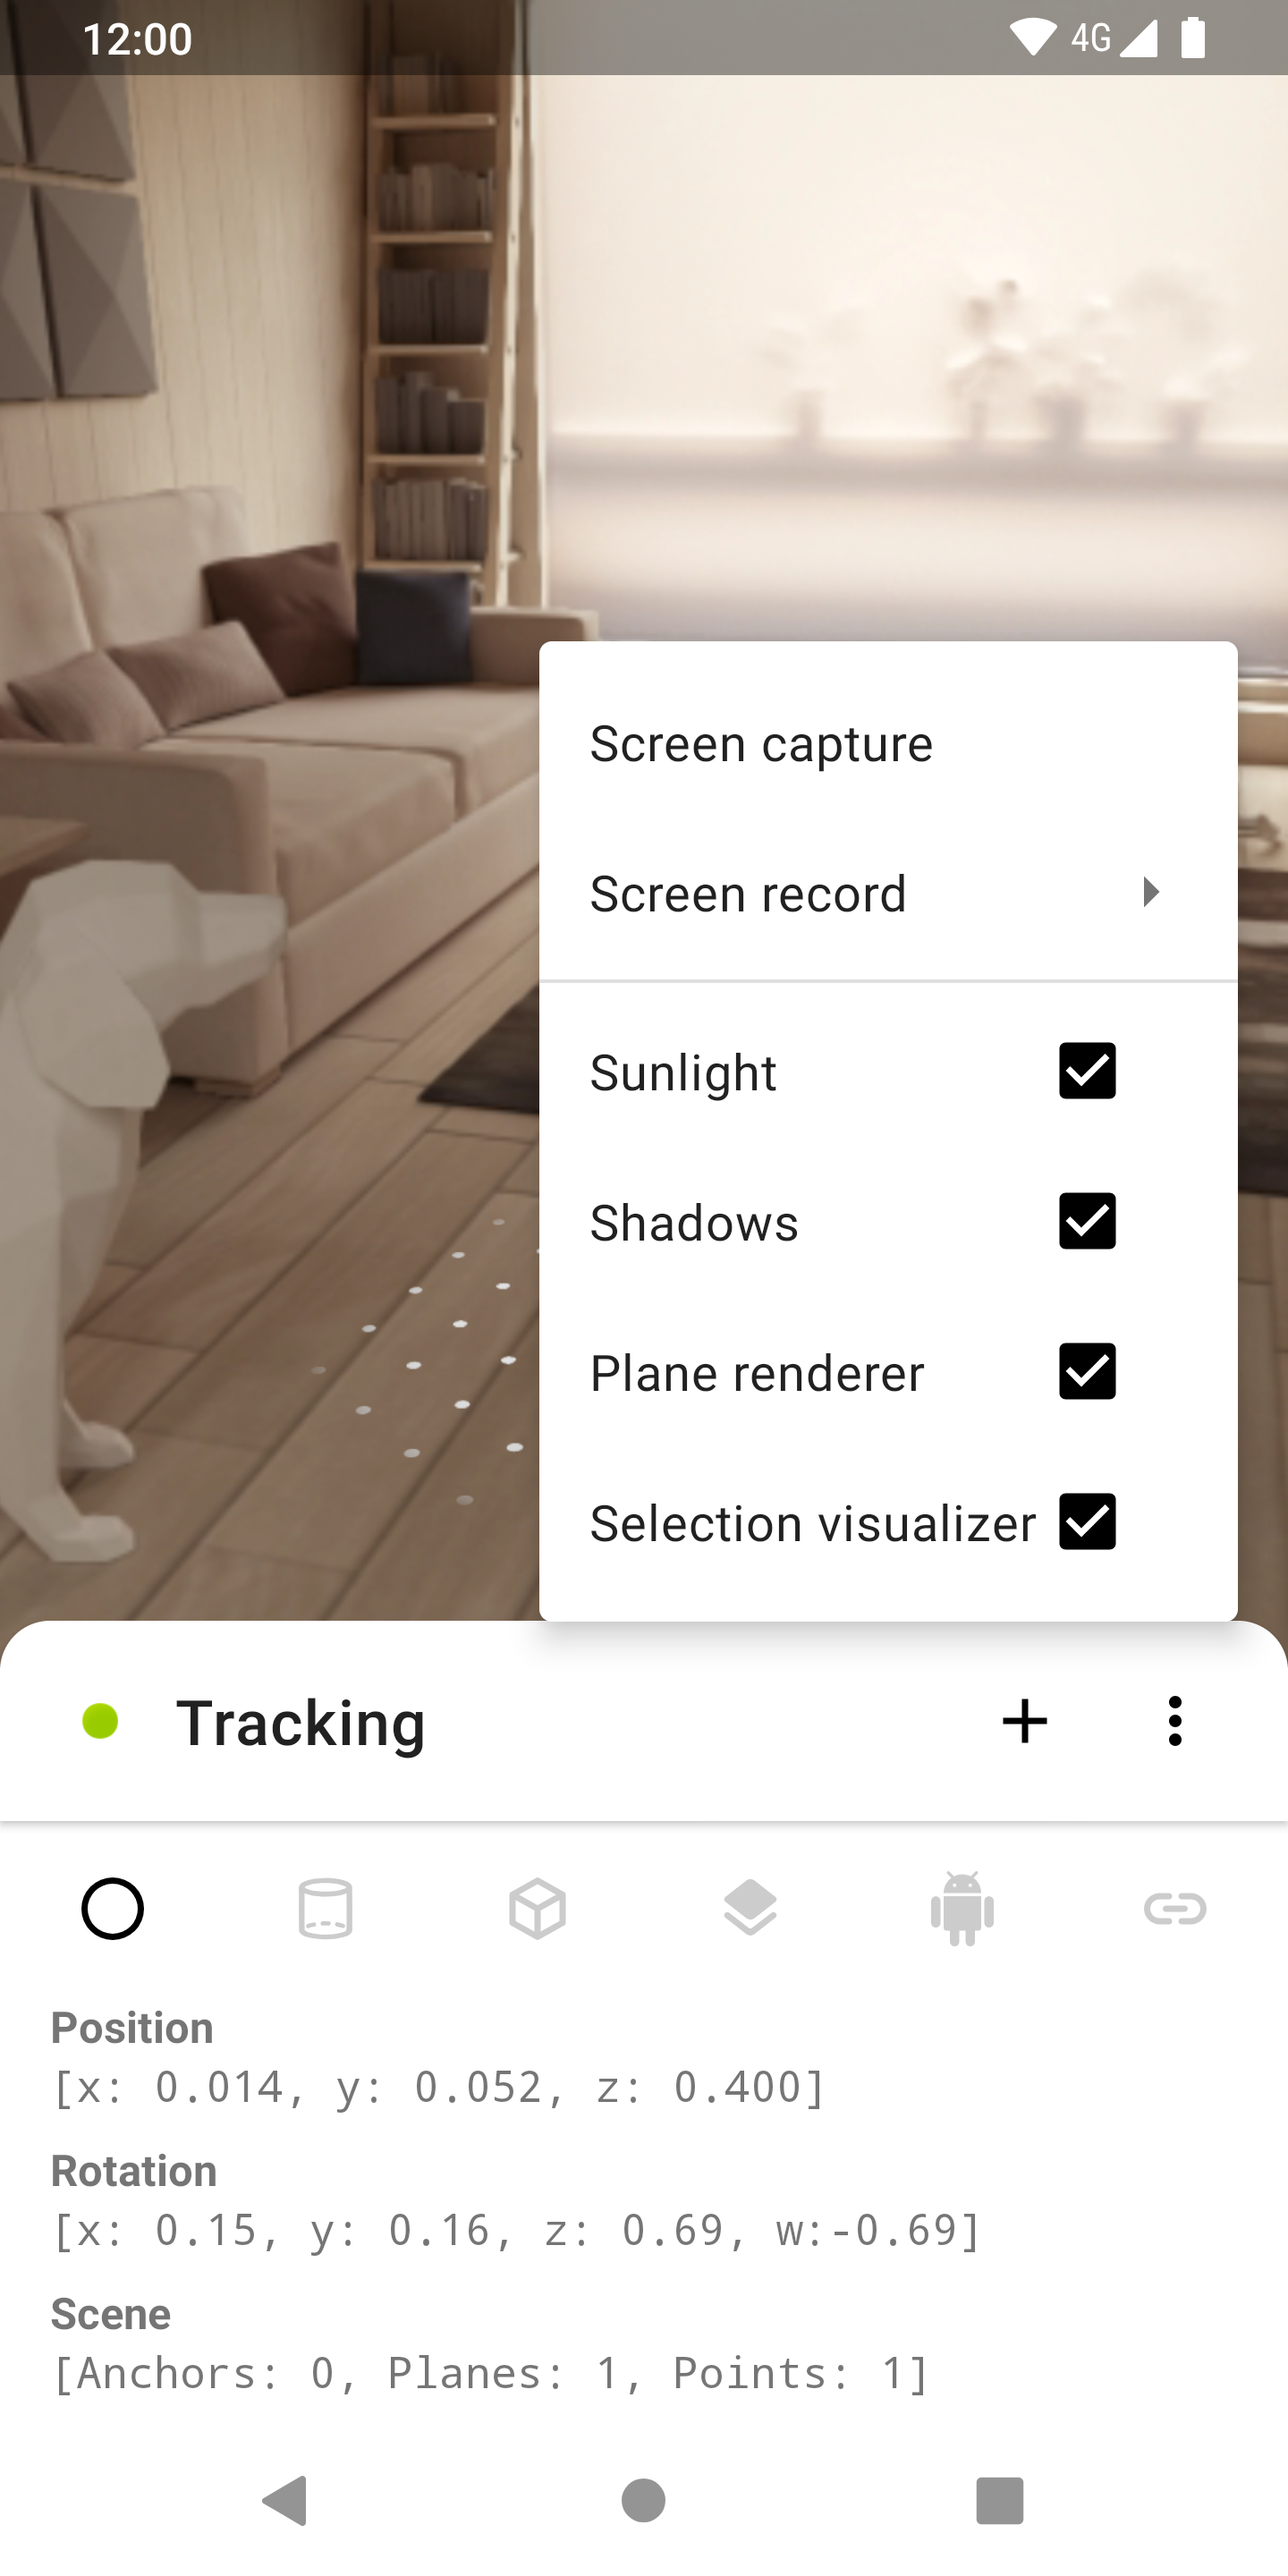
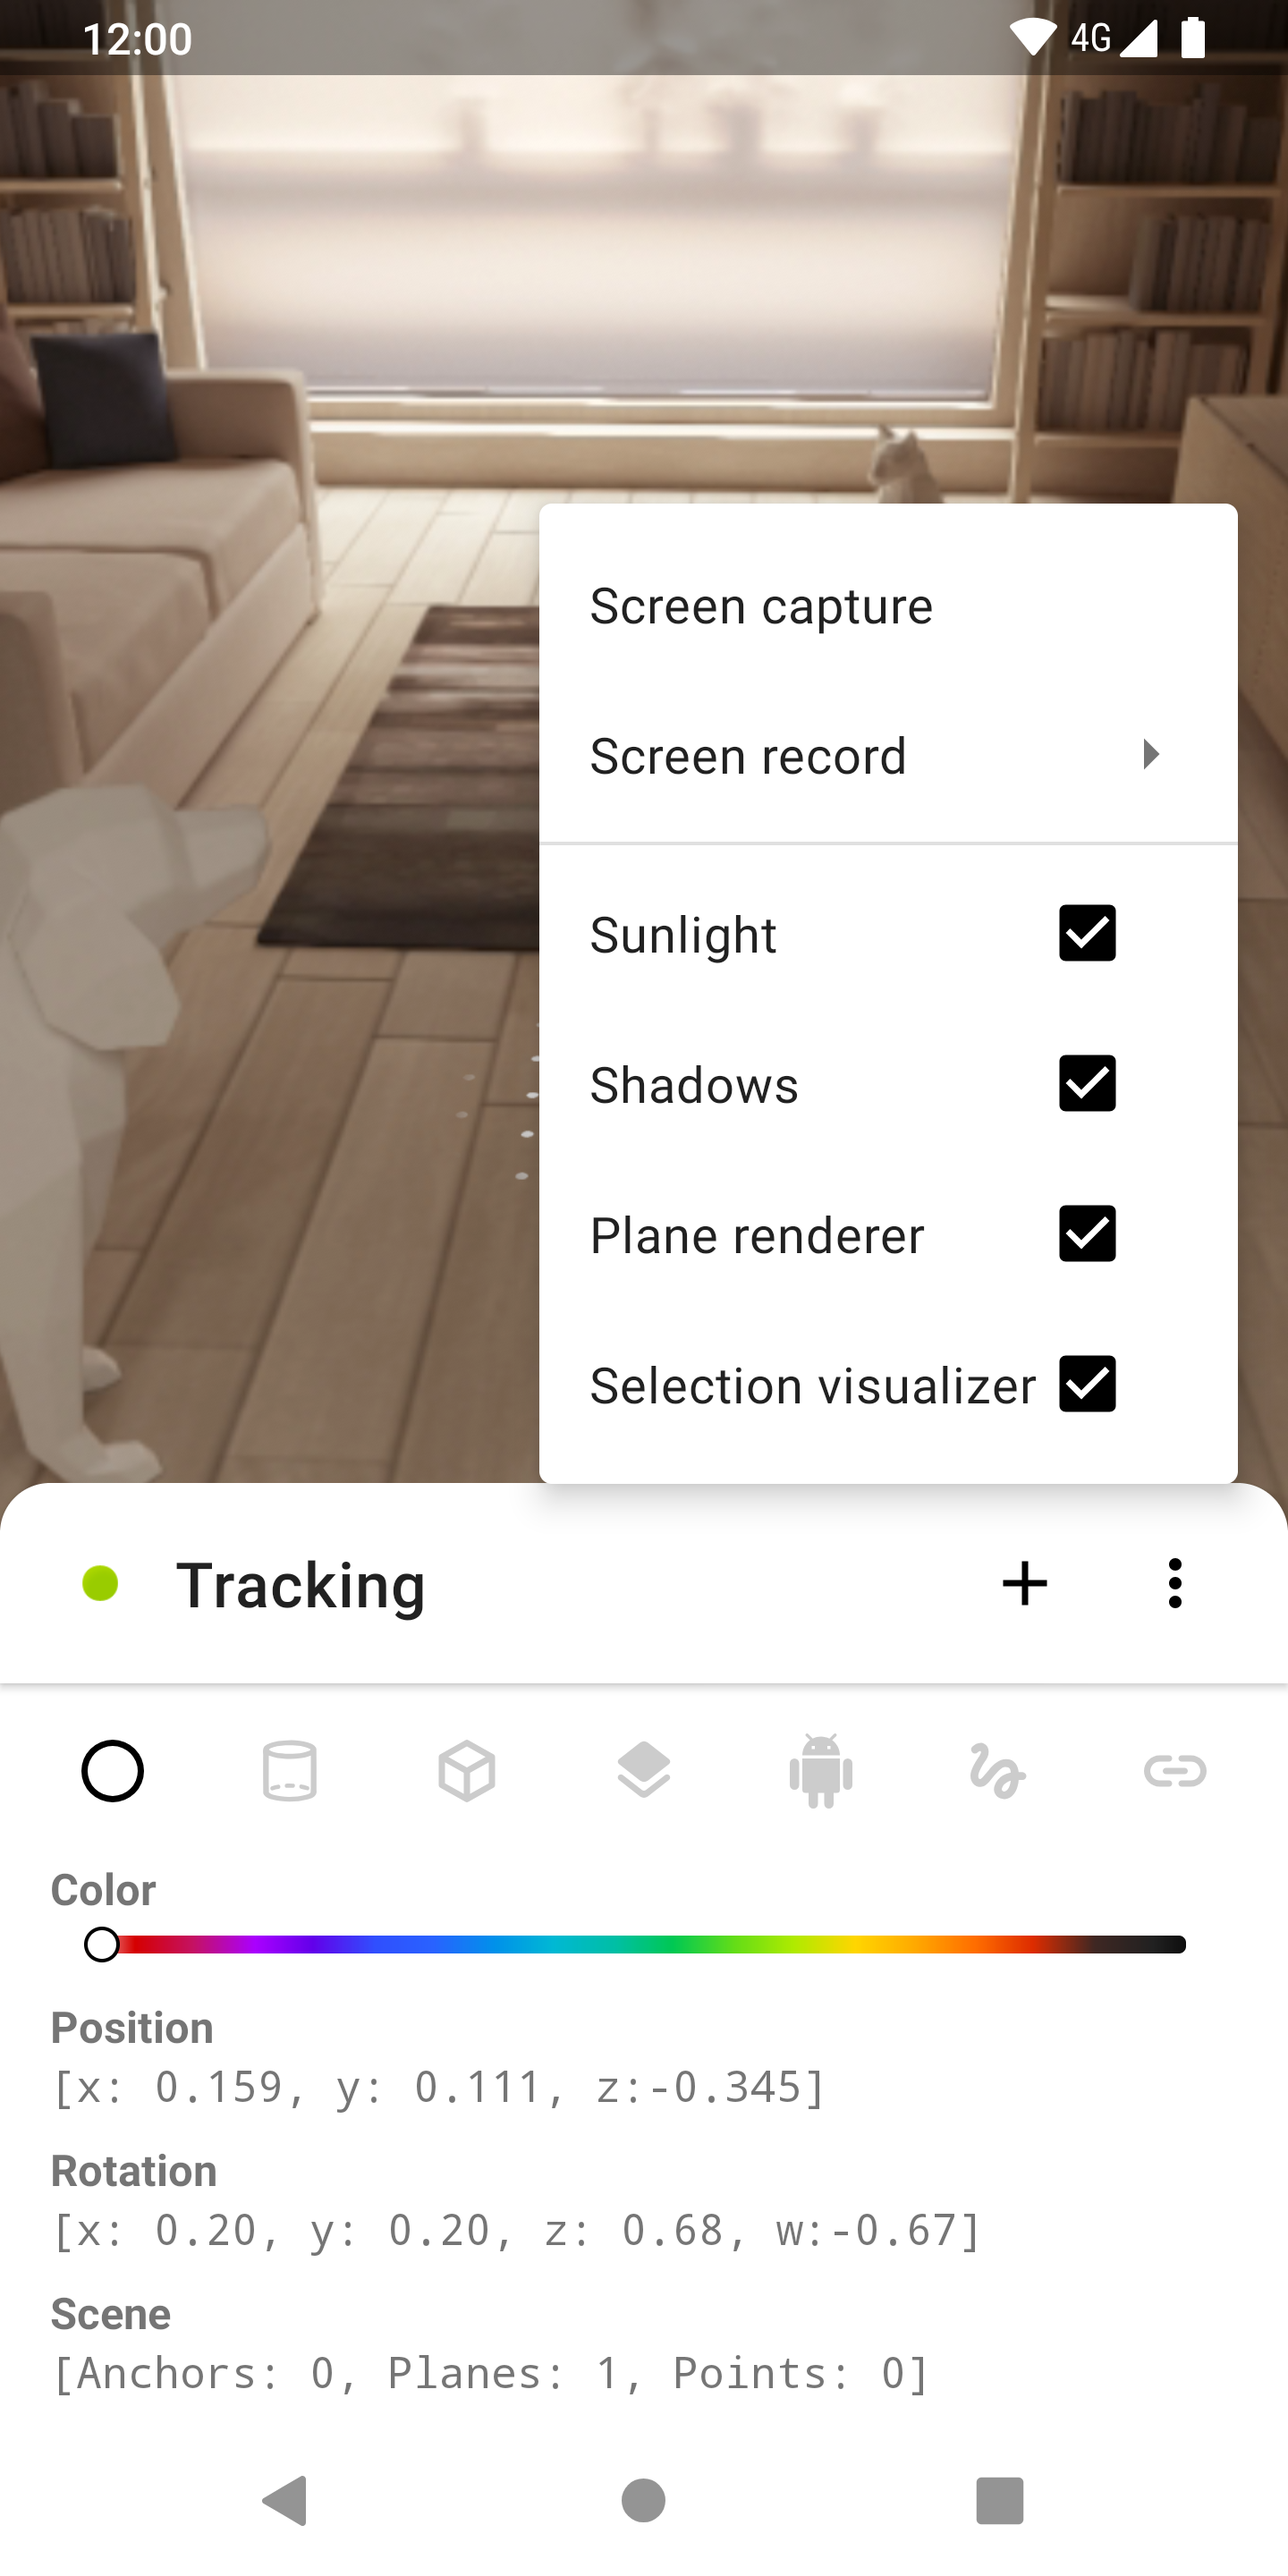
Prepare version 1.2.0
Bump version number
Update CHANGELOG.md & README.md
Update screenshots

diff --git a/README.md b/README.md
@@ -18,6 +18,7 @@
 - [ARCore](https://github.com/google-ar/arcore-android-sdk)
 - [Sceneform](https://github.com/google-ar/sceneform-android-sdk)
 - [ColorSeekBar](https://github.com/divyanshub024/ColorSeekBar)
+- [sceneform-samples](https://github.com/googlesamples/sceneform-samples)
 - [glTF-Sample-Models](https://github.com/KhronosGroup/glTF-Sample-Models)
 - [Poly](https://poly.google.com/)
 

diff --git a/CHANGELOG.md b/CHANGELOG.md
@@ -4,11 +4,18 @@
 
 <!-- MarkdownTOC -->
 
+- [1.2.0](#120)
 - [1.1.0](#110)
 - [1.0.0](#100)
 
 <!-- /MarkdownTOC -->
 </details>
+
+## 1.2.0
+> 2019.07.07
+
+- 🖍 Freehand drawing
+- 📦 15 online glTF models
 
 ## 1.1.0
 > 2019.06.23
